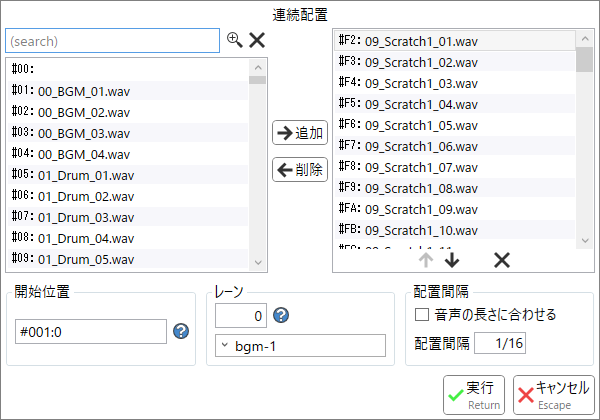
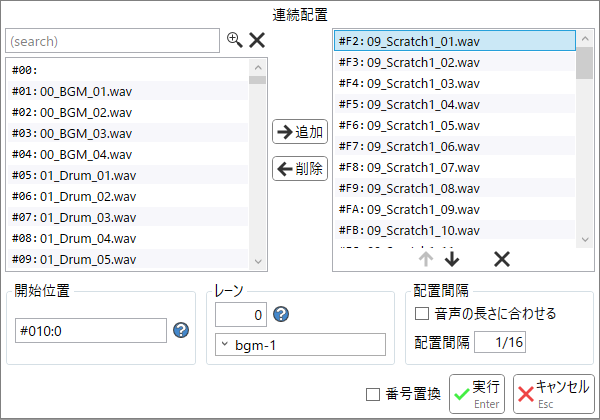
v0.7.47

diff --git a/docs/history.html b/docs/history.html
@@ -10,6 +10,65 @@
         <div class="content">
             <ul>
                 <li>
+                    <details id="0_7_47">
+                        <summary class="a-like">Version 0.7.47 (2026/07/06)</summary>
+                        <ul>
+                            <li>
+                                仕様変更
+                                <ul>
+                                    <li>
+                                        <a href="bms.html">BMSモード</a>において、以下のように変更しました。
+                                        <ul>
+                                            <li>
+                                                デフォルトのテーマ(<a href="bms_theme.html">テーマ設定</a>の「新規」及び同梱の<span class="script">Themes/Bms/default.json</span>で確認可能)において、指揮者レーンとメタレーンに対してレーンを一つも表示しないスタイルを追加しました。
+                                            </li>
+                                            <li>
+                                                BGMレーンの右端<b>4つ</b>が常に空白となるように変更しました。
+                                            </li>
+                                        </ul>
+                                    </li>
+                                </ul>
+                            </li>
+                            <li>
+                                機能追加
+                                <ul>
+                                    <li>
+                                        <a href="bms_sequential.html">BMSモード/連続配置</a>に「番号置換」オプションを追加しました。
+                                        <ul>
+                                            <li>
+                                                チェックすると、新たにノートを配置するのではなく、<b>選択中のノートの定義番号を指定された順番で置き換える</b>という動作になります。
+                                            </li>
+                                            <li>
+                                                「開始位置」「レーン」「配置間隔」の設定は全て無視され、指揮者レーン以外にある全ての選択中ノートに対して無差別に適用されます。
+                                            </li>
+                                            <li>
+                                                シーケンスリストの要素数が足りない場合はループして適用されます。
+                                            </li>
+                                        </ul>
+                                    </li>
+                                </ul>
+                            </li>
+                            <li>
+                                不具合修正
+                                <ul>
+                                    <li>
+                                        <a href="bms.html">BMSモード</a>において、ファイルの保存時に<span class="script">#SWITCH</span>の分岐内容が無視される不具合を修正しました。
+                                    </li>
+                                    <li>
+                                        <a href="bms_noteEdit.html">BMSモード/ノート編集</a>などのダイアログにおいて、画面の右方や下方で開くと画面からはみ出て操作できない不具合を<b>部分的に</b>修正しました。
+                                        <ul>
+                                            <li>
+                                                ディスプレイの拡大率が100%ではない環境では解消していない可能性があるためご注意ください。
+                                            </li>
+                                        </ul>
+                                    </li>
+                                </ul>
+                            </li>
+                        </ul>
+                        <br>
+                    </details>
+                </li>
+                <li>
                     <details id="0_7_46">
                         <summary class="a-like">Version 0.7.46 (2026/05/11)</summary>
                         <ul>

diff --git a/docs/bms_sequential.html b/docs/bms_sequential.html
@@ -27,19 +27,20 @@
                 要素をクリックすると説明が表示されます。
                 <div class="image-map" src="img/bms_sequential.png" maps="
                       5, 28,263, 25, bms/searchBar.html;
-                      5, 57,263,216, bms/sequential_defList.html, center;
-                    272,120, 56, 25, bms/sequential_add.html;
-                    272,157, 56, 25, bms/sequential_remove.html;
-                    332, 28,263,245, bms/sequential_sequenceList.html, center;
-                    413,249, 26, 23, common/list_moveUp.html;
-                    439,249, 26, 23, common/list_moveDown.html;
-                    489,249, 26, 23, common/list_delete.html;
-                      2,281,198, 90, bms/sequential_position.html;
-                    202,281,198, 90, bms/sequential_lane.html;
-                    410,302,179, 25, bms/sequential_sound.html;
-                    410,328,179, 30, bms/sequential_interval.html;
-                    443,375, 62, 40, bms/sequential_execute.html;
-                    513,375, 82, 40, common/cancel_restore.html;">
+                      5, 57,263,215, bms/sequential_defList.html, center;
+                    272,119, 56, 25, bms/sequential_add.html;
+                    272,156, 56, 25, bms/sequential_remove.html;
+                    332, 28,263,244, bms/sequential_sequenceList.html, center;
+                    413,248, 26, 23, common/list_moveUp.html;
+                    439,248, 26, 23, common/list_moveDown.html;
+                    489,248, 26, 23, common/list_delete.html;
+                      2,280,198, 90, bms/sequential_position.html;
+                    202,280,198, 90, bms/sequential_lane.html;
+                    410,301,179, 25, bms/sequential_sound.html;
+                    410,327,179, 30, bms/sequential_interval.html;
+                    362,374, 83, 40, bms/sequential_replace.html;
+                    449,374, 56, 40, bms/sequential_execute.html;
+                    513,374, 82, 40, common/cancel_restore.html;">
                 </div>
             </div>
         </div>

diff --git a/docs/bms/sequential_replace.html b/docs/bms/sequential_replace.html
@@ -1,0 +1,14 @@
+<h3>番号置換</h3>
+<ul>
+    <li>
+        チェックした場合、新たにノートを配置するのではなく、<br>
+        <b>選択中のノートの定義番号を指定された順番で置き換える</b>という動作になります。
+    </li>
+    <li>
+        「開始位置」「レーン」「配置間隔」の設定は<b>全て無視</b>され、<br>
+        指揮者レーン以外にある全ての選択中ノートに対して無差別に適用されます。
+    </li>
+    <li>
+        シーケンスリストの要素数が足りない場合はループして適用されます。
+    </li>
+</ul>

diff --git a/docs/index.html b/docs/index.html
@@ -11,7 +11,7 @@
             <div class="stack">
                 <a href="https://github.com/Kuroki-Narumi/BmsMaker3-Manual/releases" target="_blank">
                     <img src="img/logo.png" style="max-width: 100%;"/><br>
-                    Version 0.7.46<br>
+                    Version 0.7.47<br>
                 </a>
                 オールインワン型BMS制作補助ツール<br>
             </div>

diff --git a/bmst_spec.md b/bmst_spec.md
@@ -136,8 +136,8 @@ BMSに似た書式のテキストフォーマット
   - グループ2: コマンドの内容
     - `.+`: 1個以上の任意の文字
     - 記号、空白を含む任意の文字種にマッチする。
-    - コマンド内容を空白文字で始めることはできない(それらは全て上記「1個以上の空白文字」に吸収される)が、空白文字で終わることはできる。
-      - `#HOGE abc`と`#HOGE  abc`(間の半角スペースが2個)は全く同じものとして扱われるが、`#HOGE abc`と`#HOGE abc `(最後に半角スペースがある)は異なるものとして扱われる可能性がある。
+    - コマンド内容を空白文字で始めることはできないが、空白文字で終わることはできる。
+      - `#HOGE abc`と`#HOGE  abc`(間の半角スペースが2個)は全く同じもの(`abc`)として扱われるが、`#HOGE abc`と`#HOGE abc `(最後に半角スペースがある)は異なるものとして扱われる可能性がある。
       - `#Title`のような、内容をそのまま文字列として受け取るコマンドでは特に注意。
     - コマンドによって、実際に使用(解釈)可能な文字種は更に制限される。
     - 例えば、数値を要求するタグにおいては、値の前後の空白を削除した上で、残った部分を数値として解釈するよう試みる。
@@ -172,7 +172,7 @@ BMSに似た書式のテキストフォーマット
   - 譜面作者は、分岐内にメタコマンドを記述してはならない。
 
 ### 既定のメタコマンド
-解釈器は少なくとも以下の全てのメタコマンドを採用する[_**MUST**_]。その他独自実装のメタコマンドを採用してもよい。
+解釈器は少なくとも以下の全てのメタコマンドを解釈できなければならない[_**MUST**_]。その他独自実装のメタコマンドを採用してもよい。
 - `#Genre`
   - 例: `#Genre TRANCE`
   - 楽曲のジャンルを表す文字列。
@@ -186,6 +186,7 @@ BMSに似た書式のテキストフォーマット
   - 楽曲の副題を表す文字列。
   - **`SUB`と`TITLE`の間に区切り文字は入れない**。
   - 解釈器はこの値に対して自動的に括弧を付与**しない**[_**MUST**_]。副題を括弧で囲う必要がある場合、ファイル作成者は値に直接記述しておく。
+  - `#SubTitle`が存在せず、`#Title`が括弧付きの表現で終わる場合、解釈器はその部分を`#SubTitle`と同等に扱ってもよい。[_**MAY**_]
 - `#Artist`
   - 例: `#Artist Andrew Helio`
   - この楽曲の作者を表す文字列。
@@ -324,7 +325,7 @@ BMSに似た書式のテキストフォーマット
   - 譜面作者は、分岐内に定義コマンドを記述してはならない。
 
 ### 規定の定義コマンド
-解釈器は少なくとも以下の全ての定義コマンドを採用する[_**MUST**_]。その他独自実装の定義コマンドを採用してもよい。
+解釈器は少なくとも以下の全ての定義コマンドを解釈できなければならない[_**MUST**_]。その他独自実装の定義コマンドを採用してもよい。
 - `#DefSound`
   - 例: `#DefSound 001 bgm_00.wav`
   - BMSTで使用する音声ファイルを登録する。
@@ -411,35 +412,18 @@ BMSに似た書式のテキストフォーマット
 - `#DefVar`
   - 例: `#DefVar 001 rand(3)`
   - 分岐コマンド(後述)で使用する条件用の変数を登録する。
-    - 定義内容は**数式**である(詳細は後述)。
-    - 基本的には以下のいずれかを記述するものと考える。
-      - 数値(例: `3`): その数値をそのまま変数の値とする。
-      - 乱数値(例: `rand(3)`): `0`以上で指定値**未満**のランダムな整数を変数の値とする。
-      - 他の変数(例: `$1`): `$`に定義番号を続けることで、その変数の値を参照する。(後述)
-      - `#DefVar`への参照を除く変数(例:`x`など)は利用できない。そのような「未知の値」は**全て`0`とみなす**。[_**MUST**_]
-    - 正しい数式として解釈できない場合は`0`とみなす。
+    - 定義内容は以下のいずれかの形式で記述する。
+      - 定数値(例: `3`): その数値をそのまま変数の値とする。小数/分数表現も可能。
+      - 乱数値(例: `rand(3)`): `0`以上で指定値**未満**のランダムな整数を変数の値とする。数値は0より大きい整数でなければならない。
+    - 不正な表現は全て`0`とみなす。
   - 変数の内容はファイルの読み込み時点では評価(計算)せず、**実際にその値が必要になった時に初めて評価する**。[_**MUST**_]
     - 典型的には、プレイのために楽曲データを読み込む際に、分岐を決定するために評価することになる。
     - 数式の正常性チェックはファイルの読み込み時点で行ってよい。
     - どこからも参照されていない変数の内容は最後まで評価されない。
-    - 変数の評価順は分岐コマンドの記述順に依存する。定義番号の若い変数が優先されるとは限らない。
-    - 一度評価された変数は、その後何度評価されても同じ値である(**再評価しない**)。
+    - 一度評価された変数は**再評価しない**。`rand`の値は最初に参照した時点で決定し、その後は何度参照しても同じ値となる。
   - 変数は数式において`$`と定義番号を続けることで参照できる。
     - 例: `$1`: 定義番号`001`の変数に置換される。
-    - 循環参照が発生した場合、その時点での値は`0`とみなす。以下例
-      - `#DefVar 001 $002 * 2`と`#DefVar 002 $001 + 1`があるとする。
-      - 最初の分岐コマンドが`#IF $001 = 1`の場合
-        - この分岐を決定するために`$001`を解決する。
-        - `$001`の定義は`$002 * 2`であるため、`$002`の解決を試みる。
-        - `$002`の定義は`$001 + 1`であるため、`$001`の解決を試みるが、既に解決中である。
-        - よって`$002`の定義に登場する`$001`は`0`とみなされ、結果的に`$002 = 0 + 1 = 1`になる。
-        - `$002 * 2 = 1 * 2 = 2`となり、`#IF $001 = 1`は棄却される。
-      - 最初の分岐コマンドが`#IF $002 = 1`の場合
-        - この分岐を決定するために`$002`を解決する。
-        - `$002`の定義は`$001 + 1`であるため、`$001`の解決を試みる。
-        - `$001`の定義は`$002 * 2`であるため、`$002`の解決を試みるが、既に解決中である。
-        - よって`$001`の定義に登場する`$002`は`0`とみなされ、結果的に`$001 = 0 * 2 = 0`になる。
-        - `$001 + 1 = 0 + 1 = 1`となり、`#IF $002 = 1`は採用される。
+    - 未定義の変数を参照した場合、その値は`0`とみなされる。
 - `#DefExpr`
   - 例: `#DefExpr 001 cosc(t)`
   - オートメーションタイプのシーケンスコマンド(後述)で使用する、値の変化式を登録する。
@@ -447,7 +431,6 @@ BMSに似た書式のテキストフォーマット
     - 数式中には`$001`の形で`#DefVar`で定義した変数を使用できる。
     - 数式中の`t`には変化率に応じて`0`から`1`の値が入る。
     - `t`及び`#DefVar`への参照を除く変数(例:`x`など)は利用できない。そのような「未知の値」は**全て`0`とみなす**。[_**MUST**_]
-    - 数式の評価後、値は`0`以上`1`以下となるように矯正される。
   - 変数定義`#DefVar`と異なり、`#DefExpr`は参照される度に評価される。
 
 ## シーケンスコマンド
@@ -479,7 +462,7 @@ BMSに似た書式のテキストフォーマット
   - 同時適用が不可能なチャンネル(`Bar`など)では、最後に記述されたものだけが適用されることになる。
 
 ### 既定のチャンネル
-解釈器は少なくとも以下の全てのチャンネルを採用する[_**MUST**_]。その他独自実装のチャンネルを採用してもよい。
+解釈器は少なくとも以下の全てのチャンネルを解釈できなければならない[_**MUST**_]。その他独自実装のチャンネルを採用してもよい。
 - `K\d+`: キー(演奏レーンの音声ノート)
   - 例: `#001 K11 01,00,01,02`
   - アルファベット`K`と、それに続く1個以上の数字
@@ -624,6 +607,7 @@ BMSに似た書式のテキストフォーマット
       - その後3拍目にかけて滑らかに`200`へと近づいていき、3拍目(=1小節の**ちょうど真ん中**)で`200`になる。
     - まるごと1小節かけて変化させる場合、`#001 Bpm 100` `#002 Bpm $1:200`のように2行に分けて書く必要がある。
     - 実際に適用される値は、直前値を`a`、直後値を`b`として`a + (b - a) * expr(t)`となる。
+  - 数式の評価後、値は`0`以上`1`以下となるように矯正される。
   - 具体例:
     ```
     #AutoResol 1/32
@@ -669,6 +653,48 @@ BMSに似た書式のテキストフォーマット
     - `$1:200`に対する**直前値**は1拍目に存在する`100`である。従って「1拍目から3拍目にかけて`100`から`200`に変化する」というオートメーションが適用される。
     - `$2:150`に対する**直前値**は3拍目に存在する`$1:200`である。従って「3拍目から3拍目にかけて`200`から`150`に変化する」というオートメーションが適用される。ただしその期間が`0`であるため、実際には`150`が直接適用される。
     - 最終的には「1拍目から3拍目にかけて`100`から`200`に変化」「3拍目では`200`ではなく`150`になる」という挙動になる。
+
+## 分岐コマンド
+- 特定の条件で変化する譜面などを表現するためのコマンド。
+- 分岐コマンドは最低1組の**開始コマンド**と**終了コマンド**からなり、その間に置かれたシーケンスコマンドを一纏めに(スコープ化)する。
+- 分岐コマンドの記法は**メタコマンド**と同様であり、分岐コマンドとメタコマンドはその識別子によってのみ区別できる。
+- 分岐コマンドは入れ子にできる。分岐が入れ子になっている場合、最も内側のスコープは全ての条件が満たされた場合にのみ適用される。
+- 分岐の条件判定は基本的に
+
+### 規定の分岐コマンド
+解釈器は少なくとも以下の分岐コマンドを解釈できなければならない[_**MUST**_]。
+- `#IF`
+  - 例: `#IF $1 = 1`
+  - コマンドの内容は**数式**(後述)である。
+  - **数式の評価(計算)結果が`0`以外の場合**、対応する`#EndIF`/`#Else`/`#ElseIF`までの区間を適用する。
+    - `#IF 1`は**常に適用される分岐**であり、`#IF 0`は**決して適用されない分岐**となる。
+  - `#IF`系のコマンドは**必ず`#EndIF`で閉じなければならない**。
+    - もし複数の`#IF`が連続で出現した場合、それらは独立の条件ではなく**ネストした条件分岐**とみなされる。
+    - 分岐区間がファイルの終端までの場合に限り、`#EndIF`は省略可能である(が、一貫性のために省略するべきではない)。
+- `#ElseIF`
+  - 例: `#ElseIF $1 = 2`
+  - コマンドの内容は**数式**(後述)である。
+  - 対応する`#IF`が**適用されなかった場合**に数式が評価され、**結果が`0`以外の場合**、対応する`#Else`/`#EndIF`までの区間を適用する。
+    - `#ElseIf`に書かれた数式は、対応する`#IF`が偽(`0`)だった場合にのみ評価される。
+  - 対応する`#IF`が見つからなかった場合、解釈器は以下のいずれかで対応する。
+    - これを最初の`#IF`とみなす。[_**SHOULD**_]
+    - そのBMSTを不正なものとみなす。
+- `#Else`
+  - 対応する`#IF`及び`#ElseIF`の**いずれも適用されなかった場合**、対応する`#EndIF`までの区間を適用する。
+- `#EndIF`
+  - 対応する`#IF`/`#ElseIF`/`#Else`の分岐区間の終了を示す。
+  - `#IF`節は`#IF`で始まり、0個以上の`#ElseIF`と0個か1個の`#Else`を挟み、`#EndIF`で終わる。以下は正当な`#IF`節の例である。
+```
+#IF $1 = 1
+  (内容)
+#ElseIF $1 = 2
+  (内容)
+#ElseIF $2 > $1
+  (内容)
+#Else
+  (内容)
+#EndIF
+```
 
 # 付録
 ## 再生可能な解釈器に要求する基本仕様
